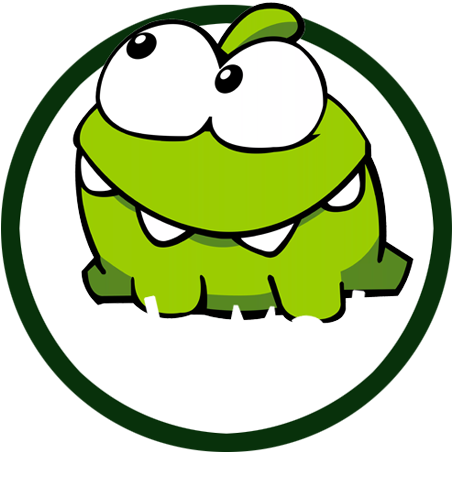
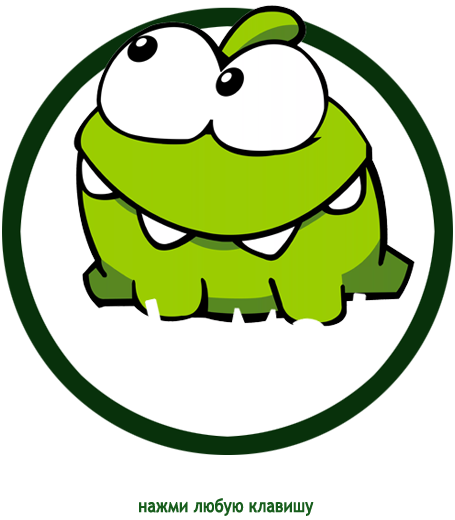
check git

diff --git a/abc.html b/abc.html
@@ -1,0 +1,103 @@
+<!DOCTYPE html>
+<html>
+
+<head>
+    <meta charset="UTF-8" />
+    <title>title</title>
+</head>
+
+<body>
+    <div class="controls">
+        <audio id="snd" src="А.m4a"></audio>
+        <button onclick="speak('г')">Play!!!!!</button>
+        <button onclick="start()">Click to Speak</button>
+    </div>
+</body>
+<script>
+    const SpeechRecognition = window.SpeechRecognition || window.webkitSpeechRecognition;
+    const SpeechGrammarList = window.SpeechGrammarList || window.webkitSpeechGrammarList;
+    const SpeechRecognitionEvent = window.SpeechRecognitionEvent || window.webkitSpeechRecognitionEvent;
+
+    const recognition = new SpeechRecognition();
+    var grammar ="#JSGF V1.0; grammar letters; public <letter> = а | gi | в | г | бо | е | ё  | бе ;";
+
+
+    recognition.lang = "ru-RU";
+    recognition.interimResults = false;
+    recognition.maxAlternatives = 20;
+
+    const speechRecognitionList = new SpeechGrammarList();
+    speechRecognitionList.addFromString(grammar, 20);
+    recognition.grammars = speechRecognitionList;
+    console.log(recognition.grammars, 11111);
+
+    recognition.onresult = function (event) {
+        if (event.results.length > 0) {
+            var result = event.results[0];
+            console.log(event.results.length, result.length , 'event.results')
+
+            for (var i = 0; i < result.length; ++i) {
+                var text = result[i].transcript;
+                console.log(text)
+            }
+        }
+    }
+
+    function start() {
+        recognition.start();
+    }
+
+
+
+    const synth = window.speechSynthesis;
+
+
+    let voices = []
+    let currentVoice;
+
+    function populateVoiceList() {
+        // Google русский, Microsoft Irina - Russian (Russia), Microsoft Pavel - Russian (Russia)
+        voices = synth.getVoices()
+        currentVoice = voices.find(item => item.name === 'Google русский')
+        console.log(currentVoice, 'voices')
+    }
+
+    populateVoiceList();
+    if (speechSynthesis.onvoiceschanged !== undefined) {
+        speechSynthesis.onvoiceschanged = populateVoiceList;
+    }
+
+    function speak(txt) {
+        if (synth.speaking) {
+            console.error("speechSynthesis.speaking");
+            return;
+        }
+
+        const utterThis = new SpeechSynthesisUtterance(txt);
+
+        utterThis.onend = function (event) {
+            console.log("SpeechSynthesisUtterance.onend");
+        };
+
+        utterThis.onerror = function (event) {
+            console.error("SpeechSynthesisUtterance.onerror");
+        };
+
+        utterThis.voice = currentVoice;
+        utterThis.pitch = 0.7;
+        utterThis.rate = 1.3;
+        synth.speak(utterThis);
+    }
+
+    window.onload = function () {
+        document.onkeypress = function () {
+            document.getElementById('snd').play();
+        }
+    }
+
+
+    
+
+</script>
+
+</html>
